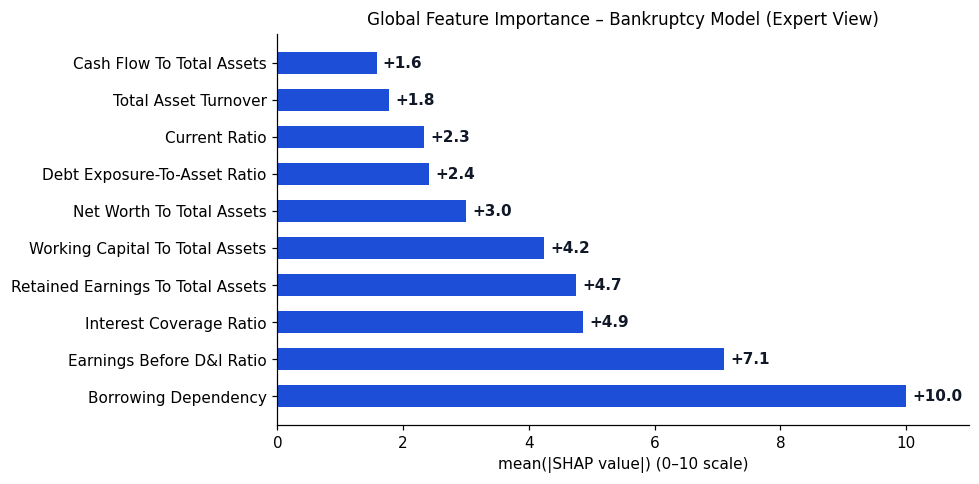
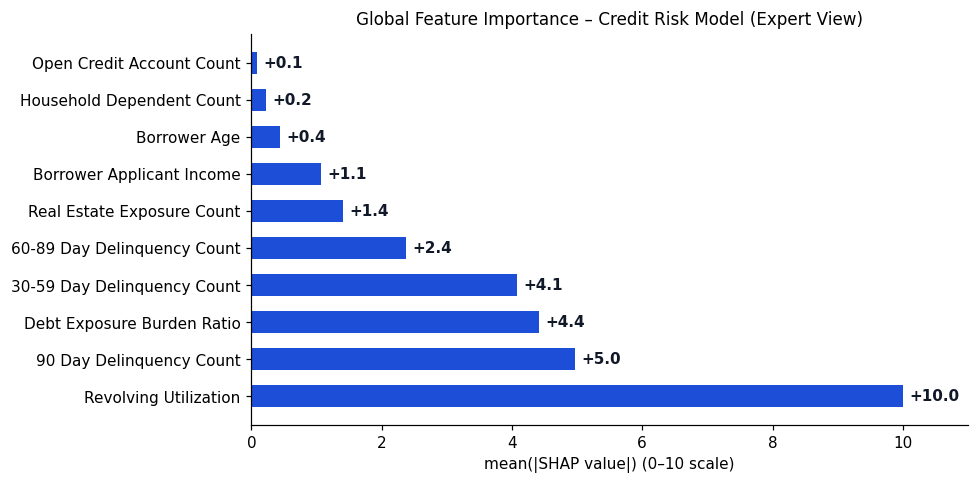
fix input & output no explanation

diff --git a/frontend/src/pages/Dashboard.jsx b/frontend/src/pages/Dashboard.jsx
@@ -1,4 +1,4 @@
-import React, { useState, useCallback, useEffect } from 'react'
+import React, { useState, useCallback, useEffect, useRef } from 'react'
 import { SHAPChart } from '../components/SHAPChart'
 import { LIMEChart } from '../components/LIMEChart'
 import { DiCEPanel } from '../components/DiCEPanel'
@@ -42,6 +42,7 @@ export default function Dashboard() {
   const [creditIndex, setCreditIndex] = useState(0)
   const [creditDetails, setCreditDetails] = useState(null)
   const [apiReady, setApiReady] = useState(false)
+  const selectedSampleRef = useRef({ loan: null, bankruptcy: null, credit_risk: null })
   const hasValue = (v) => v !== null && v !== undefined && v !== '' && !(typeof v === 'number' && Number.isNaN(v))
   const isPositiveNumber = (v) => typeof v === 'number' && Number.isFinite(v) && v > 0
   const hasValidLoanStoryData = (sample) => {
@@ -49,6 +50,7 @@ export default function Dashboard() {
     return Boolean(sample?.loan_id)
       && isPositiveNumber(Number(raw.ApplicantIncome))
       && isPositiveNumber(Number(raw.CoapplicantIncome))
+      && isPositiveNumber(Number(raw.LoanAmount))
       && hasValue(raw.Loan_Amount_Term)
       && hasValue(raw.Credit_History)
   }
@@ -102,16 +104,29 @@ export default function Dashboard() {
           const ids = data.loan_ids || []
           if (!ids.length) return null
           let fallbackSample = null
+          const validSamples = []
           for (const id of ids) {
             try {
               const sample = await getLoanSample(id)
               if (!fallbackSample) fallbackSample = sample
               if (hasValidLoanStoryData(sample)) {
-                return sample
+                validSamples.push(sample)
               }
             } catch {
               // Try next sample ID.
             }
+          }
+          if (validSamples.length) {
+            const savedId = selectedSampleRef.current.loan
+            const savedSample = savedId
+              ? validSamples.find((s) => s?.loan_id === savedId)
+              : null
+            const chosen = savedSample || validSamples[Math.floor(Math.random() * validSamples.length)]
+            selectedSampleRef.current.loan = chosen?.loan_id || null
+            return chosen
+          }
+          if (fallbackSample?.loan_id) {
+            selectedSampleRef.current.loan = fallbackSample.loan_id
           }
           return fallbackSample
         })
@@ -138,16 +153,29 @@ export default function Dashboard() {
           const names = data.company_names || []
           if (!names.length) return null
           let fallbackSample = null
+          const validSamples = []
           for (const name of names) {
             try {
               const sample = await getBankruptcySample(name)
               if (!fallbackSample) fallbackSample = sample
               if (hasValidBankruptcyStoryData(sample)) {
-                return sample
+                validSamples.push(sample)
               }
             } catch {
               // Try next company.
             }
+          }
+          if (validSamples.length) {
+            const savedName = selectedSampleRef.current.bankruptcy
+            const savedSample = savedName
+              ? validSamples.find((s) => s?.company_name === savedName)
+              : null
+            const chosen = savedSample || validSamples[Math.floor(Math.random() * validSamples.length)]
+            selectedSampleRef.current.bankruptcy = chosen?.company_name || null
+            return chosen
+          }
+          if (fallbackSample?.company_name) {
+            selectedSampleRef.current.bankruptcy = fallbackSample.company_name
           }
           return fallbackSample
         })
@@ -178,16 +206,31 @@ export default function Dashboard() {
           const indices = data.indices || []
           if (!indices.length) return null
           let fallbackSample = null
+          const validSamples = []
           for (const idx of indices) {
             try {
               const sample = await getCreditSample(idx)
               if (!fallbackSample) fallbackSample = sample
               if (hasValidCreditStoryData(sample)) {
-                return sample
+                validSamples.push(sample)
               }
             } catch {
               // Try next credit row.
             }
+          }
+          if (validSamples.length) {
+            const savedIndex = selectedSampleRef.current.credit_risk
+            const savedSample = Number.isInteger(savedIndex)
+              ? validSamples.find((s) => Number(s?.index) === savedIndex)
+              : null
+            const chosen = savedSample || validSamples[Math.floor(Math.random() * validSamples.length)]
+            selectedSampleRef.current.credit_risk = Number.isFinite(Number(chosen?.index))
+              ? Number(chosen.index)
+              : null
+            return chosen
+          }
+          if (Number.isFinite(Number(fallbackSample?.index))) {
+            selectedSampleRef.current.credit_risk = Number(fallbackSample.index)
           }
           return fallbackSample
         })
@@ -309,6 +352,62 @@ export default function Dashboard() {
     }
     return String(value)
   }
+  const formatUSD = (value) => {
+    const n = Number(value)
+    if (!Number.isFinite(n)) return 'N/A'
+    return `$${n.toLocaleString(undefined, { maximumFractionDigits: 0 })}`
+  }
+  const formatLoanAmountUSD = (value) => {
+    const n = Number(value)
+    if (!Number.isFinite(n) || n <= 0) return 'N/A'
+    return `$${Math.round(n * 1000).toLocaleString()}`
+  }
+  const formatCount = (value) => {
+    const n = Number(value)
+    if (!Number.isFinite(n)) return 'N/A'
+    return Math.round(n).toLocaleString()
+  }
+  const formatRatioAsPercent = (value) => {
+    const n = Number(value)
+    if (!Number.isFinite(n)) return 'N/A'
+    return `${(n * 100).toFixed(1)}%`
+  }
+  const formatBankruptcyMetricLabel = (rawName) => {
+    const key = String(rawName || '').trim()
+    const map = {
+      'ROA(C) before interest and depreciation before interest': 'Operating return on assets',
+      'ROA(A) before interest and % after tax': 'After-tax return on assets',
+      'Debt ratio %': 'Debt ratio',
+      'Net worth/Assets': 'Net worth to assets',
+      'Working Capital/Total Assets': 'Working capital to total assets',
+      'Total Asset Turnover': 'Asset turnover',
+      'Current Ratio': 'Current ratio',
+      'Cash Flow/Total Assets': 'Cash flow to total assets',
+      'Interest Coverage Ratio': 'Interest coverage ratio',
+      'Borrowing dependency': 'Borrowing dependency',
+      'Retained Earnings/Total Assets': 'Retained earnings to total assets',
+    }
+    return map[key] || key.replace(/_/g, ' ')
+  }
+  const formatBankruptcyMetricValue = (rawName, value) => {
+    const key = String(rawName || '').trim()
+    const percentLike = new Set([
+      'ROA(C) before interest and depreciation before interest',
+      'ROA(A) before interest and % after tax',
+      'Debt ratio %',
+      'Net worth/Assets',
+      'Working Capital/Total Assets',
+      'Cash Flow/Total Assets',
+      'Retained Earnings/Total Assets',
+      'Borrowing dependency',
+    ])
+    if (percentLike.has(key)) return formatRatioAsPercent(value)
+    if (key === 'Total Asset Turnover' || key === 'Current Ratio' || key === 'Interest Coverage Ratio') {
+      const n = Number(value)
+      return Number.isFinite(n) ? `${n.toFixed(2)}x` : 'N/A'
+    }
+    return formatValue(value)
+  }
   const predictionPct = positiveProbability == null ? null : (positiveProbability * 100).toFixed(1)
   const loanRaw = loanDetails?.raw || {}
   const bankruptcyRaw = bankruptcyDetails?.raw || {}
@@ -316,26 +415,71 @@ export default function Dashboard() {
   const decisionStory = (() => {
     if (!prediction || predictionPct == null) return null
     if (dataset === 'loan') {
-      const applicantIncome = loanRaw.ApplicantIncome != null ? formatValue(loanRaw.ApplicantIncome) : 'N/A'
-      const coapplicantIncome = loanRaw.CoapplicantIncome != null ? formatValue(loanRaw.CoapplicantIncome) : 'N/A'
-      const loanTerm = loanRaw.Loan_Amount_Term != null ? formatValue(loanRaw.Loan_Amount_Term) : 'N/A'
-      const creditHistory = loanRaw.Credit_History != null ? formatValue(loanRaw.Credit_History) : 'N/A'
-      return `Loan ID ${loanDetails?.loan_id || loanId} shows applicant income ${applicantIncome}, coapplicant income ${coapplicantIncome}, loan term ${loanTerm}, and credit history ${creditHistory}. The model concluded "${prediction.prediction_label}" with confidence ${predictionPct}%.`
+      const applicantIncome = loanRaw.ApplicantIncome != null ? formatUSD(loanRaw.ApplicantIncome) : 'N/A'
+      const coapplicantIncome = loanRaw.CoapplicantIncome != null ? formatUSD(loanRaw.CoapplicantIncome) : 'N/A'
+      const householdIncomeNum = Number(loanRaw.ApplicantIncome || 0) + Number(loanRaw.CoapplicantIncome || 0)
+      const householdIncome = householdIncomeNum > 0 ? formatUSD(householdIncomeNum) : 'N/A'
+      const loanAmount = loanRaw.LoanAmount != null ? formatLoanAmountUSD(loanRaw.LoanAmount) : 'N/A'
+      const loanTerm = loanRaw.Loan_Amount_Term != null ? `${formatCount(loanRaw.Loan_Amount_Term)} months` : 'N/A'
+      const creditHistoryNum = Number(loanRaw.Credit_History)
+      const creditHistory = Number.isFinite(creditHistoryNum)
+        ? (creditHistoryNum >= 1 ? 'positive (1)' : 'limited (0)')
+        : 'N/A'
+      return `Loan ID ${loanDetails?.loan_id || loanId} has applicant income ${applicantIncome}, coapplicant income ${coapplicantIncome} (total ${householdIncome}), requested loan amount ${loanAmount}, and a ${loanTerm} term.`
     }
     if (dataset === 'bankruptcy') {
       const company = bankruptcyDetails?.company_name || companyName
       const yearPart = bankruptcyDetails?.year != null ? ` in year ${bankruptcyDetails.year}` : ''
+      const preferredOrder = [
+        'ROA(C) before interest and depreciation before interest',
+        'ROA(A) before interest and % after tax',
+        'Debt ratio %',
+        'Current Ratio',
+        'Interest Coverage Ratio',
+        'Cash Flow/Total Assets',
+        'Net worth/Assets',
+        'Working Capital/Total Assets',
+        'Total Asset Turnover',
+        'Borrowing dependency',
+        'Retained Earnings/Total Assets',
+      ]
+      const metricOrderIndex = new Map(preferredOrder.map((k, i) => [k, i]))
       const metricPreview = Object.entries(bankruptcyRaw)
         .filter(([k, v]) => !['company_name', 'year', 'status_label', 'Bankrupt?'].includes(k) && typeof v === 'number' && Number.isFinite(v))
-        .slice(0, 2)
-        .map(([k, v]) => `${k.replace(/_/g, ' ')} ${formatValue(v)}`)
+        .sort(([a], [b]) => {
+          const ai = metricOrderIndex.has(a) ? metricOrderIndex.get(a) : Number.MAX_SAFE_INTEGER
+          const bi = metricOrderIndex.has(b) ? metricOrderIndex.get(b) : Number.MAX_SAFE_INTEGER
+          if (ai !== bi) return ai - bi
+          return a.localeCompare(b)
+        })
+        .slice(0, 4)
+        .map(([k, v]) => `${formatBankruptcyMetricLabel(k)} ${formatBankruptcyMetricValue(k, v)}`)
         .join(', ')
-      return `Company ${company}${yearPart} was assessed using financial indicators${metricPreview ? ` including ${metricPreview}` : ''}. The model decision is "${prediction.prediction_label}" with confidence ${predictionPct}%.`
+      return `Company ${company}${yearPart} was assessed using key bankruptcy indicators${metricPreview ? `, including ${metricPreview}` : ''}.`
     }
-    const age = hasValue(creditRaw.age) ? formatValue(creditRaw.age) : 'N/A'
-    const income = hasValue(creditRaw.MonthlyIncome) ? formatValue(creditRaw.MonthlyIncome) : 'N/A'
-    const openLines = hasValue(creditRaw.NumberOfOpenCreditLinesAndLoans) ? formatValue(creditRaw.NumberOfOpenCreditLinesAndLoans) : 'N/A'
-    return `Credit record #${creditDetails?.index ?? creditIndex} shows age ${age}, monthly income ${income}, and open credit lines ${openLines}. The model predicts "${prediction.prediction_label}" with confidence ${predictionPct}%.`
+    const importantCreditFields = [
+      ['age', (v) => `${formatCount(v)} years`],
+      ['MonthlyIncome', (v) => `${formatUSD(v)} per month`],
+      ['DebtRatio', (v) => formatRatioAsPercent(v)],
+      ['RevolvingUtilizationOfUnsecuredLines', (v) => formatRatioAsPercent(v)],
+      ['NumberOfTime30-59DaysPastDueNotWorse', (v) => `${formatCount(v)} times`],
+      ['NumberOfOpenCreditLinesAndLoans', (v) => `${formatCount(v)} lines`],
+    ]
+    const creditPreview = importantCreditFields
+      .filter(([k]) => hasValue(creditRaw[k]))
+      .slice(0, 4)
+      .map(([k, formatter]) => {
+        const label = k
+          .replace('MonthlyIncome', 'monthly income')
+          .replace('DebtRatio', 'debt ratio')
+          .replace('RevolvingUtilizationOfUnsecuredLines', 'revolving utilization')
+          .replace('NumberOfTime30-59DaysPastDueNotWorse', '30-59 days past due')
+          .replace('NumberOfOpenCreditLinesAndLoans', 'open credit lines')
+          .replace('age', 'age')
+        return `${label} ${formatter(creditRaw[k])}`
+      })
+      .join(', ')
+    return `Credit record #${creditDetails?.index ?? creditIndex} was assessed using key credit-risk indicators${creditPreview ? `, including ${creditPreview}` : ''}.`
   })()
 
   return (
@@ -406,7 +550,7 @@ export default function Dashboard() {
             <div className="flex flex-wrap items-baseline gap-x-8 gap-y-1">
               {dataset === 'loan' && loanDetails && (
                 <div className="w-full">
-                  <div className="grid gap-4 md:grid-cols-[1fr_auto_1fr] md:items-start">
+                  <div className="grid gap-4 md:grid-cols-2 md:items-stretch">
                     <div className="rounded-xl border border-slate-200 bg-white/70 p-4">
                       <p className="text-xs font-semibold uppercase tracking-wider text-slate-500">Details</p>
                       {decisionStory && (
@@ -415,8 +559,7 @@ export default function Dashboard() {
                         </p>
                       )}
                     </div>
-                    <div className="hidden self-stretch text-center text-2xl font-semibold text-slate-300 md:flex md:items-center md:justify-center">|</div>
-                    <div className="rounded-xl border border-slate-200 bg-white/70 p-4">
+                    <div className="h-full rounded-xl border border-slate-200 bg-white/70 p-4">
                       <p className="text-xs font-semibold uppercase tracking-wider text-slate-500">Decision</p>
                       <p className="mt-1 text-sm text-slate-700">
                         Status{' '}
@@ -434,7 +577,7 @@ export default function Dashboard() {
               )}
               {dataset === 'bankruptcy' && (
                 <div className="w-full">
-                  <div className="grid gap-4 md:grid-cols-[1fr_auto_1fr] md:items-start">
+                  <div className="grid gap-4 md:grid-cols-2 md:items-stretch">
                     <div className="rounded-xl border border-slate-200 bg-white/70 p-4">
                       <p className="text-xs font-semibold uppercase tracking-wider text-slate-500">Details</p>
                       {decisionStory && (
@@ -443,8 +586,7 @@ export default function Dashboard() {
                         </p>
                       )}
                     </div>
-                    <div className="hidden self-stretch text-center text-2xl font-semibold text-slate-300 md:flex md:items-center md:justify-center">|</div>
-                    <div className="rounded-xl border border-slate-200 bg-white/70 p-4">
+                    <div className="h-full rounded-xl border border-slate-200 bg-white/70 p-4">
                       <p className="text-xs font-semibold uppercase tracking-wider text-slate-500">Decision</p>
                       <p className="mt-1 text-sm text-slate-700">
                         Status{' '}
@@ -462,7 +604,7 @@ export default function Dashboard() {
               )}
               {dataset === 'credit_risk' && (
                 <div className="w-full">
-                  <div className="grid gap-4 md:grid-cols-[1fr_auto_1fr] md:items-start">
+                  <div className="grid gap-4 md:grid-cols-2 md:items-stretch">
                     <div className="rounded-xl border border-slate-200 bg-white/70 p-4">
                       <p className="text-xs font-semibold uppercase tracking-wider text-slate-500">Details</p>
                       {decisionStory && (
@@ -471,8 +613,7 @@ export default function Dashboard() {
                         </p>
                       )}
                     </div>
-                    <div className="hidden self-stretch text-center text-2xl font-semibold text-slate-300 md:flex md:items-center md:justify-center">|</div>
-                    <div className="rounded-xl border border-slate-200 bg-white/70 p-4">
+                    <div className="h-full rounded-xl border border-slate-200 bg-white/70 p-4">
                       <p className="text-xs font-semibold uppercase tracking-wider text-slate-500">Decision</p>
                       <p className="mt-1 text-sm text-slate-700">
                         Status{' '}
